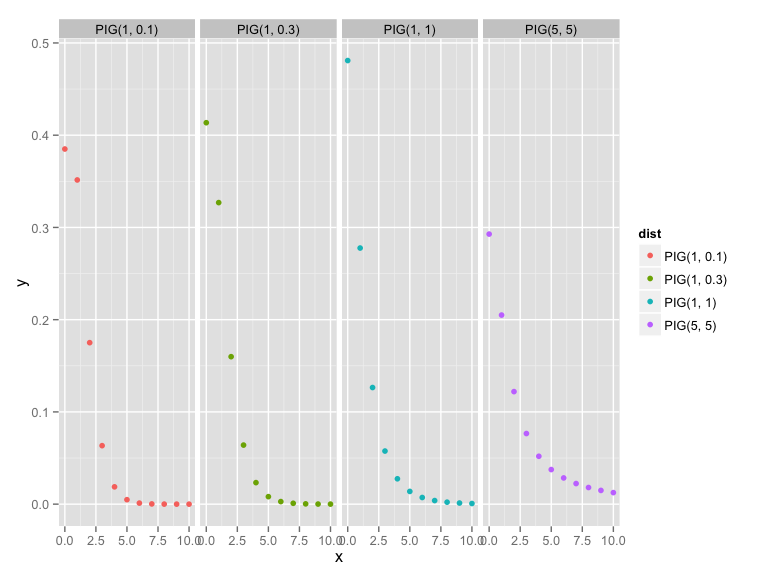
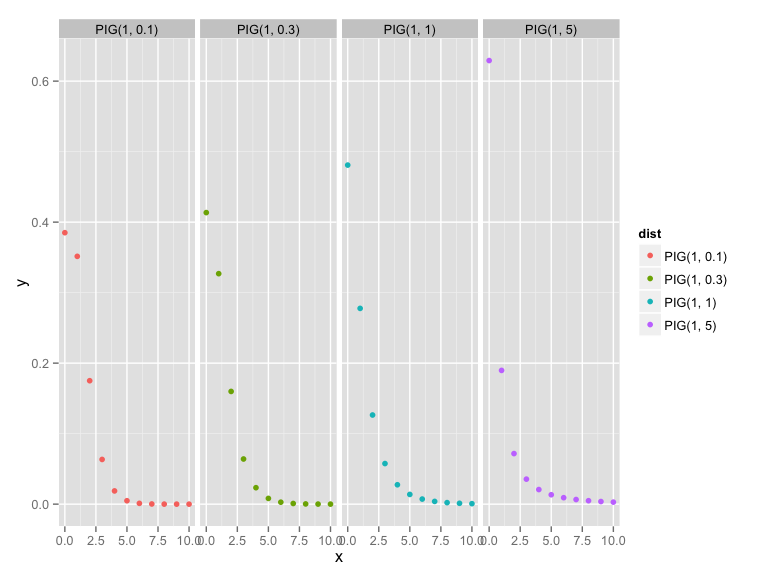
Made some changes

diff --git a/Discrete_Data_Analysis_Talk.html b/Discrete_Data_Analysis_Talk.html
@@ -182,8 +182,8 @@ freq_chap5 &lt;-<span class="st"> </span><span class="kw">termFreq</span>(chap5)
 x &lt;-<span class="st"> </span><span class="kw">seq</span>(<span class="fl">0.1</span>, <span class="fl">2.5</span>, <span class="dt">by =</span> <span class="fl">0.02</span>)
 IG1 &lt;-<span class="st"> </span><span class="kw">data.frame</span>(<span class="dt">x =</span> x, <span class="dt">y =</span> <span class="kw">dIG</span>(x, <span class="dv">1</span>, <span class="dv">5</span>), <span class="dt">dist =</span> <span class="st">&quot;IG(1, 5)&quot;</span>, <span class="dt">stringsAsFactors=</span> <span class="ot">FALSE</span>)
 IG2 &lt;-<span class="st"> </span><span class="kw">data.frame</span>(<span class="dt">x =</span> x, <span class="dt">y =</span> <span class="kw">dIG</span>(x, <span class="dv">1</span>, <span class="dv">1</span>), <span class="dt">dist =</span> <span class="st">&quot;IG(1, 1)&quot;</span>, <span class="dt">stringsAsFactors=</span> <span class="ot">FALSE</span>)
-IG3 &lt;-<span class="st"> </span><span class="kw">data.frame</span>(<span class="dt">x =</span> x, <span class="dt">y =</span> <span class="kw">dIG</span>(x, <span class="dv">1</span>, <span class="fl">0.1</span>), <span class="dt">dist =</span> <span class="st">&quot;IG(1, 0.1)&quot;</span>, <span class="dt">stringsAsFactors=</span> <span class="ot">FALSE</span>)
-IG4 &lt;-<span class="st"> </span><span class="kw">data.frame</span>(<span class="dt">x =</span> x, <span class="dt">y =</span> <span class="kw">dIG</span>(x, <span class="dv">1</span>, <span class="fl">0.3</span>), <span class="dt">dist =</span> <span class="st">&quot;IG(1, 0.3)&quot;</span>, <span class="dt">stringsAsFactors=</span> <span class="ot">FALSE</span>)
+IG3 &lt;-<span class="st"> </span><span class="kw">data.frame</span>(<span class="dt">x =</span> x, <span class="dt">y =</span> <span class="kw">dIG</span>(x, <span class="dv">1</span>, <span class="fl">0.3</span>), <span class="dt">dist =</span> <span class="st">&quot;IG(1, 0.3)&quot;</span>, <span class="dt">stringsAsFactors=</span> <span class="ot">FALSE</span>)
+IG4 &lt;-<span class="st"> </span><span class="kw">data.frame</span>(<span class="dt">x =</span> x, <span class="dt">y =</span> <span class="kw">dIG</span>(x, <span class="dv">1</span>, <span class="fl">0.1</span>), <span class="dt">dist =</span> <span class="st">&quot;IG(1, 0.1)&quot;</span>, <span class="dt">stringsAsFactors=</span> <span class="ot">FALSE</span>)
 
 IG_prior &lt;-<span class="st"> </span><span class="kw">rbind</span>(IG1, IG2, IG3, IG4)
 
@@ -211,10 +211,10 @@ IG_prior &lt;-<span class="st"> </span><span class="kw">rbind</span>(IG1, IG2, I
 <section class="slide level1">
 
 <pre class="sourceCode r"><code class="sourceCode r">x &lt;-<span class="st"> </span><span class="dv">0</span>:<span class="dv">10</span>
-PIG1 &lt;-<span class="st"> </span><span class="kw">data.frame</span>(<span class="dt">x =</span> x, <span class="dt">y =</span> <span class="kw">dPIG</span>(x, <span class="dv">5</span>, <span class="dv">5</span>), <span class="dt">dist =</span> <span class="st">&quot;PIG(5, 5)&quot;</span>, <span class="dt">stringsAsFactors=</span> <span class="ot">FALSE</span>)
+PIG1 &lt;-<span class="st"> </span><span class="kw">data.frame</span>(<span class="dt">x =</span> x, <span class="dt">y =</span> <span class="kw">dPIG</span>(x, <span class="dv">1</span>, <span class="dv">5</span>), <span class="dt">dist =</span> <span class="st">&quot;PIG(1, 5)&quot;</span>, <span class="dt">stringsAsFactors=</span> <span class="ot">FALSE</span>)
 PIG2 &lt;-<span class="st"> </span><span class="kw">data.frame</span>(<span class="dt">x =</span> x, <span class="dt">y =</span> <span class="kw">dPIG</span>(x, <span class="dv">1</span>, <span class="dv">1</span>), <span class="dt">dist =</span> <span class="st">&quot;PIG(1, 1)&quot;</span>, <span class="dt">stringsAsFactors=</span> <span class="ot">FALSE</span>)
-PIG3 &lt;-<span class="st"> </span><span class="kw">data.frame</span>(<span class="dt">x =</span> x, <span class="dt">y =</span> <span class="kw">dPIG</span>(x, <span class="dv">1</span>, <span class="fl">0.1</span>), <span class="dt">dist =</span> <span class="st">&quot;PIG(1, 0.1)&quot;</span>, <span class="dt">stringsAsFactors=</span> <span class="ot">FALSE</span>)
-PIG4 &lt;-<span class="st"> </span><span class="kw">data.frame</span>(<span class="dt">x =</span> x, <span class="dt">y =</span> <span class="kw">dPIG</span>(x, <span class="dv">1</span>, <span class="fl">0.3</span>), <span class="dt">dist =</span> <span class="st">&quot;PIG(1, 0.3)&quot;</span>, <span class="dt">stringsAsFactors=</span> <span class="ot">FALSE</span>)
+PIG3 &lt;-<span class="st"> </span><span class="kw">data.frame</span>(<span class="dt">x =</span> x, <span class="dt">y =</span> <span class="kw">dPIG</span>(x, <span class="dv">1</span>, <span class="fl">0.3</span>), <span class="dt">dist =</span> <span class="st">&quot;PIG(1, 0.3)&quot;</span>, <span class="dt">stringsAsFactors=</span> <span class="ot">FALSE</span>)
+PIG4 &lt;-<span class="st"> </span><span class="kw">data.frame</span>(<span class="dt">x =</span> x, <span class="dt">y =</span> <span class="kw">dPIG</span>(x, <span class="dv">1</span>, <span class="fl">0.1</span>), <span class="dt">dist =</span> <span class="st">&quot;PIG(1, 0.1)&quot;</span>, <span class="dt">stringsAsFactors=</span> <span class="ot">FALSE</span>)
 
 PIG_prior &lt;-<span class="st"> </span><span class="kw">rbind</span>(PIG1, PIG2, PIG3, PIG4)
 
@@ -251,10 +251,10 @@ PIG_prior &lt;-<span class="st"> </span><span class="kw">rbind</span>(PIG1, PIG2
 dtPIG &lt;-<span class="st"> </span><span class="kw">trun.d</span>(<span class="dt">par =</span> <span class="dv">0</span>, <span class="dt">family =</span> <span class="st">&quot;PIG&quot;</span>, <span class="dt">type =</span> <span class="st">&quot;left&quot;</span>)
 
 x &lt;-<span class="st"> </span><span class="dv">1</span>:<span class="dv">8</span>
-tPIG1 &lt;-<span class="st"> </span><span class="kw">data.frame</span>(<span class="dt">x =</span> x, <span class="dt">y =</span> <span class="kw">dtPIG</span>(x, <span class="fl">1.5</span>, <span class="dv">1</span>), <span class="dt">dist =</span> <span class="st">&quot;tPIG(1.5, 1)&quot;</span>, <span class="dt">stringsAsFactors=</span> <span class="ot">FALSE</span>)
-tPIG2 &lt;-<span class="st"> </span><span class="kw">data.frame</span>(<span class="dt">x =</span> x, <span class="dt">y =</span> <span class="kw">dtPIG</span>(x, <span class="dt">mu =</span> <span class="fl">1.5</span>, <span class="dt">sigma =</span> <span class="dv">4</span>), <span class="dt">dist =</span> <span class="st">&quot;tPIG(1.5, 2)&quot;</span>, <span class="dt">stringsAsFactors=</span> <span class="ot">FALSE</span>)
-tPIG3 &lt;-<span class="st"> </span><span class="kw">data.frame</span>(<span class="dt">x =</span> x, <span class="dt">y =</span> <span class="kw">dtPIG</span>(x, <span class="fl">1.5</span>, <span class="fl">0.1</span>), <span class="dt">dist =</span> <span class="st">&quot;tPIG(1.5, 0.1)&quot;</span>, <span class="dt">stringsAsFactors=</span> <span class="ot">FALSE</span>)
-tPIG4 &lt;-<span class="st"> </span><span class="kw">data.frame</span>(<span class="dt">x =</span> x, <span class="dt">y =</span> <span class="kw">dtPIG</span>(x, <span class="fl">1.5</span>, <span class="fl">0.3</span>), <span class="dt">dist =</span> <span class="st">&quot;tPIG(1.5, 0.3)&quot;</span>, <span class="dt">stringsAsFactors=</span> <span class="ot">FALSE</span>)
+tPIG1 &lt;-<span class="st"> </span><span class="kw">data.frame</span>(<span class="dt">x =</span> x, <span class="dt">y =</span> <span class="kw">dtPIG</span>(x, <span class="dt">mu =</span> <span class="fl">1.5</span>, <span class="dt">sigma =</span> <span class="dv">5</span>), <span class="dt">dist =</span> <span class="st">&quot;tPIG(1.5, 5)&quot;</span>, <span class="dt">stringsAsFactors=</span> <span class="ot">FALSE</span>)
+tPIG2 &lt;-<span class="st"> </span><span class="kw">data.frame</span>(<span class="dt">x =</span> x, <span class="dt">y =</span> <span class="kw">dtPIG</span>(x, <span class="dt">mu =</span> <span class="fl">1.5</span>, <span class="dt">sigma =</span> <span class="dv">1</span>), <span class="dt">dist =</span> <span class="st">&quot;tPIG(1.5, 1)&quot;</span>, <span class="dt">stringsAsFactors=</span> <span class="ot">FALSE</span>)
+tPIG3 &lt;-<span class="st"> </span><span class="kw">data.frame</span>(<span class="dt">x =</span> x, <span class="dt">y =</span> <span class="kw">dtPIG</span>(x, <span class="dt">mu =</span> <span class="fl">1.5</span>, <span class="dt">sigma =</span> <span class="fl">0.3</span>), <span class="dt">dist =</span> <span class="st">&quot;tPIG(1.5, 0.3)&quot;</span>, <span class="dt">stringsAsFactors=</span> <span class="ot">FALSE</span>)
+tPIG4 &lt;-<span class="st"> </span><span class="kw">data.frame</span>(<span class="dt">x =</span> x, <span class="dt">y =</span> <span class="kw">dtPIG</span>(x, <span class="dt">mu =</span> <span class="fl">1.5</span>, <span class="dt">sigma =</span> <span class="fl">0.1</span>), <span class="dt">dist =</span> <span class="st">&quot;tPIG(1.5, 0.1)&quot;</span>, <span class="dt">stringsAsFactors=</span> <span class="ot">FALSE</span>)
 
 tPIG_prior &lt;-<span class="st"> </span><span class="kw">rbind</span>(tPIG1, tPIG2, tPIG3, tPIG4)
 
@@ -309,10 +309,10 @@ dadesP2 &lt;-<span class="st"> </span><span class="kw">sapply</span>(x, <span cl
 <h1>Personal opinion</h1>
 <p><br></p>
 <ul>
-<li>Full of details article</li>
+<li>Technical article. Full of details</li>
+<li>Easier with original code and data</li>
+<li>Why not use a Sichel?</li>
 <li>Curious about <em>Not for comercial use</em></li>
-<li>Great to have code and data with the article</li>
-<li>Why not a Sichel? generalization with additional parameter</li>
 </ul>
 <div class="references">
 
